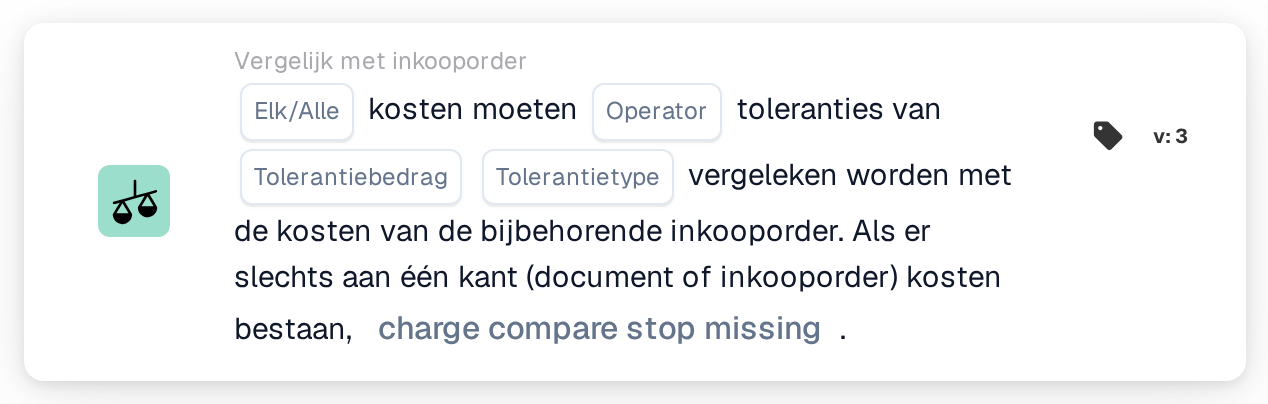
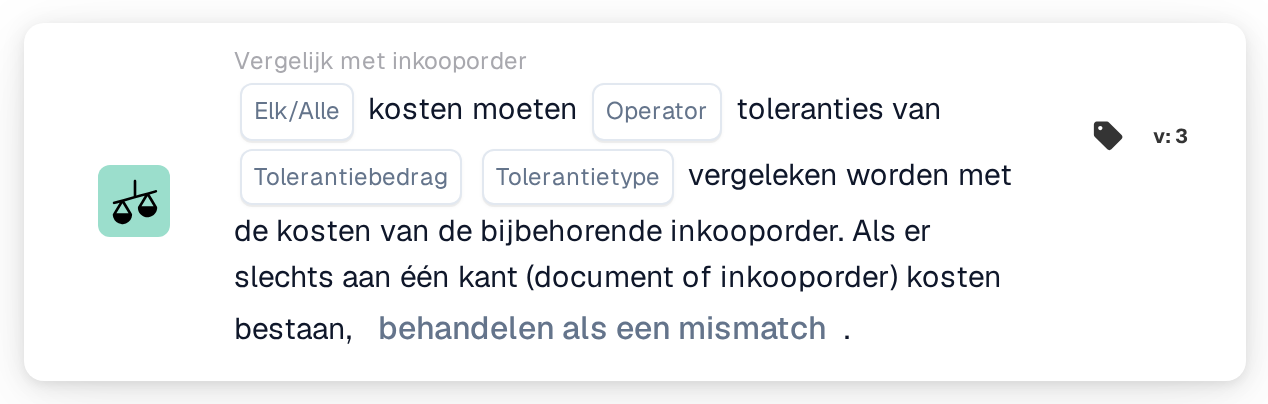
[Documentation_Workflow_Cards] [DRFS-871] add compare charges to po v4

Changed region(s): [[0.3076, 0.7723, 0.6767, 0.8614]]

diff --git a/public_docs/administration-and-setup/workflow/and/compare-with-purchase-order/any-all-charges.md b/public_docs/administration-and-setup/workflow/and/compare-with-purchase-order/any-all-charges.md
@@ -4,6 +4,8 @@
 
 <figure><img src="../../../../.gitbook/assets/workflow_card_condition_compare_charges_to_po_v3-nl-nl.png" alt="Alle/alle kosten, Versie 3" width="634"><figcaption><p>Versie 3</p></figcaption></figure>
 
+<figure><img src="../../../../.gitbook/assets/workflow_card_condition_compare_charges_to_po_v4-nl-nl.png" alt="Alle/alle kosten: Elk/Alle kosten moeten Operator toleranties van Tolerantiebedrag Tolerantietype vergeleken worden met de kosten van de bijbehorende inkooporder; kosten van 0,00 worden ook vergeleken. Als er slechts aan één kant (document of inkooporder) kosten bestaan, behandelen als een mismatch, Versie 4" width="634"><figcaption><p>Versie 4</p></figcaption></figure>
+
 ## **Doel:**
 
 Deze workflowkaart vergelijkt de bijkomende kosten op een document met de bijkomende kosten op de gekoppelde inkooporder, binnen een vastgestelde tolerantie. Ze beantwoordt één vraag: zijn document en inkooporder eens over de bijkomende kosten? Elke kost die de inkoopordermatching aan elkaar heeft gekoppeld wordt vergeleken, waardoor er geen veldnaam op de kaart hoeft te worden opgegeven.
@@ -31,8 +33,8 @@ De inkoopordermatching moet vóór deze kaart lopen. Heeft het document geen gek
    * **Opties**:
      * **Procent**: een percentage van de kost op de inkooporder.
      * **Waarde**: een vast bedrag.
-5. **Gedrag bij ontbrekende gegevens (alleen versie 3):**
-   * **Beschrijving**: Wat er moet gebeuren wanneer een kost slechts aan één zijde bestaat, op het document of op de inkooporder, zodat er geen tegenhanger is om ermee te vergelijken. De optie staat aan het einde van de zin van versie 3.
+5. **Gedrag bij ontbrekende gegevens (versies 3 en 4):**
+   * **Beschrijving**: Wat er moet gebeuren wanneer een kost slechts aan één zijde bestaat, op het document of op de inkooporder, zodat er geen tegenhanger is om ermee te vergelijken. De optie staat aan het einde van de zin.
    * **Opties**:
      * **behandelen als een mismatch**: de workflow stopt. Dit is de standaardinstelling.
      * **negeer het en behandel het als een match**: de workflow loopt verder alsof de kost overeenkwam.
@@ -43,7 +45,7 @@ De kaart doorloopt de volgende stappen.
 
 1. **Ze vereist een gekoppelde inkooporder.** Zonder gekoppelde inkooporder stopt de kaart onmiddellijk en meldt ze ontbrekende gegevens.
 2. **Ze leest de tolerantie** uit **Tolerantiebedrag** en **Tolerantietype** op de kaart.
-3. **Versie 3 sorteert elke gekoppelde inkooporderregel** in één van vier situaties, waarbij ze alleen vraagt of een zijde überhaupt kosten draagt: kosten aan beide zijden, geen kosten aan beide zijden, kosten alleen op het document, of kosten alleen op de inkooporder. Een regel die niet aan de inkooporderdata van het document kan worden gekoppeld is een gegevensfout en de kaart stopt.
+3. **Versies 3 en 4 sorteren elke gekoppelde inkooporderregel** in één van vier situaties: kosten aan beide zijden, geen kosten aan beide zijden, kosten alleen op het document, of kosten alleen op de inkooporder. Versie 3 vraagt alleen of een zijde een kost boven 0,00 draagt. Versie 4 bekijkt elk kostenpaar en telt 0,00 als waarde; alleen een kost zonder enig bedrag geldt als ontbrekend. Zie **Verschillen tussen de versies** hieronder. Een regel die niet aan de inkooporderdata van het document kan worden gekoppeld is een gegevensfout en de kaart stopt.
 4. **Een kost aan slechts één zijde beslist de hele kaart.** Zodra één gekoppelde regel kosten aan de ene zijde draagt en geen aan de andere, beslist **Gedrag bij ontbrekende gegevens** het resultaat en wordt er helemaal geen kost vergeleken, ook niet de kosten van correct gekoppelde regels. Operator en tolerantie worden niet geraadpleegd.
 5. **Draagt geen enkele regel aan één van beide zijden kosten**, dan zijn beide zijden het erover eens dat er geen bijkomende kosten zijn. De operator **Buiten** is daarmee niet voldaan, omdat er niets meer dan de tolerantie afwijkt, en de workflow stopt. Elke andere operator beschouwt de overeenstemming als voldaan en de workflow loopt verder. **Gedrag bij ontbrekende gegevens** heeft hier geen effect.
 6. **Anders wordt elke kost vergeleken**, documentbedrag tegen inkooporderbedrag, met de operator en de tolerantie. Een kostenbedrag dat geen getal is stopt de kaart met ontbrekende gegevens.
@@ -57,7 +59,7 @@ Drie gevolgen zijn belangrijk om te weten vóór het configureren van de kaart.
 
 ## **Instelling en configuratie:**
 
-Voeg de kaart toe als And-voorwaarde na de inkoopordermatching. Kies of elke of één willekeurige kost aan de vergelijking moet voldoen, kies de operator **binnenin** of **Buiten** en voer tolerantiebedrag en tolerantietype in. Kies in versie 3 wat er moet gebeuren wanneer kosten aan slechts één zijde voorkomen.
+Voeg de kaart toe als And-voorwaarde na de inkoopordermatching. Kies of elke of één willekeurige kost aan de vergelijking moet voldoen, kies de operator **binnenin** of **Buiten** en voer tolerantiebedrag en tolerantietype in. Kies in versie 3 en 4 wat er moet gebeuren wanneer kosten aan slechts één zijde voorkomen.
 
 Om een configuratie te proberen zonder op een document te wachten, opent u het kaartmenu in de Workflow Builder, kiest u **Testkaart**, kiest u een document en daarna **Test op document**. Het kaartlogboek somt elke vergeleken kost op met beide bedragen, de operator en de gebruikte tolerantie, en houdt ook bij welke waarde van **Gedrag bij ontbrekende gegevens** het resultaat heeft beslist toen een kost aan slechts één zijde aanwezig was.
 
@@ -71,9 +73,25 @@ Draagt noch de orderbevestiging noch de inkooporder een kost, dan beschouwt de o
 
 Draagt de orderbevestiging een vrachtkost en de inkooporder geen, dan geldt de operator niet meer. Met **behandelen als een mismatch** stopt de workflow, zodat iemand kan nagaan waarom de kost slechts aan één zijde staat.
 
+Toont de orderbevestiging de vrachtkost als 0,00 terwijl de inkooporder 204,00 draagt, dan vergelijkt versie 4 de twee bedragen en stopt de workflow met een niet voldane voorwaarde. Versie 3 zou de 0,00 lezen als "geen kost op het document" en het resultaat overlaten aan **Gedrag bij ontbrekende gegevens**.
+
 ## **Verschillen tussen de versies:**
 
-Versie 3 gebruiken nieuwe kaarten. Versie 2 blijft in bestaande workflows ondersteund. Beide versies vergelijken per kost en voegen de resultaten documentbreed samen met de instelling **Elk/Alle**, maar versie 2 heeft geen gevalsindeling, wat verandert wat er gebeurt zodra kosten niet aan beide zijden aanwezig zijn:
+Versie 4 gebruiken nieuwe kaarten. Versies 2 en 3 blijven in bestaande workflows ondersteund.
+
+### Versie 4 vergeleken met versie 3
+
+De twee versies hebben dezelfde instellingen en dezelfde stappen. Ze verschillen alleen in hoe een kost van 0,00 wordt behandeld:
+
+* **Versie 3 behandelt 0,00 als geen kost.** Een documentkost van 0,00 gekoppeld aan een inkooporderkost van 204,00 telt als "de inkooporder heeft kosten, het document niet", dus beslist **Gedrag bij ontbrekende gegevens** en worden de bedragen nooit vergeleken. Met **negeer het en behandel het als een match** loopt de workflow verder, hoewel de bedragen verschillen.
+* **Versie 4 vergelijkt 0,00 als bedrag.** Hetzelfde paar wordt vergeleken zoals elk ander: 0,00 tegen 204,00 valt niet binnen de tolerantie, dus stopt de workflow met een niet voldane voorwaarde. Een paar met 0,00 aan beide zijden wordt ook vergeleken en komt overeen.
+* **Een kost zonder bedrag ontbreekt ook in versie 4.** Heeft één zijde van een paar helemaal geen bedrag, bijvoorbeeld een kost die de inkooporder niet draagt, dan beslist **Gedrag bij ontbrekende gegevens**, zoals in versie 3.
+
+Om dit gedrag in een bestaande workflow te krijgen, vervangt u de kaart van versie 3 door een kaart van versie 4 en stelt u dezelfde waarden in.
+
+### Versie 2
+
+Ook versie 2 vergelijkt per kost en voegt de resultaten documentbreed samen met de instelling **Elk/Alle**, maar ze heeft geen gevalsindeling, wat verandert wat er gebeurt zodra kosten niet aan beide zijden aanwezig zijn:
 
 * Versie 2 heeft geen optie **Gedrag bij ontbrekende gegevens**. Haar zin eindigt na het tolerantietype.
 * Versie 2 sorteert de gekoppelde regels niet en herkent daardoor geen kost die slechts aan één zijde bestaat. Ze vergelijkt het aanwezige bedrag tegen de 0,00 van de ontbrekende zijde, en de operator beslist: **binnenin** is niet voldaan en de workflow stopt, **Buiten** is voldaan en de workflow loopt verder. Het kaartlogboek toont de vergelijking tegen 0,00.
@@ -81,4 +99,4 @@ Versie 3 gebruiken nieuwe kaarten. Versie 2 blijft in bestaande workflows onders
 
 ## **Conclusie:**
 
-De kaart "Any / All Charges" automatiseert de controle dat de gefactureerde of bevestigde bijkomende kosten overeenkomen met de bestelde bijkomende kosten. Omdat het ontbreken van kosten aan beide zijden in versie 3 als overeenstemming geldt, lopen documenten zonder bijkomende kosten zonder handmatig ingrijpen door, terwijl kosten die aan slechts één zijde voorkomen ter controle worden tegengehouden, tenzij dat uitdrukkelijk wordt toegestaan.
+De kaart "Any / All Charges" automatiseert de controle dat de gefactureerde of bevestigde bijkomende kosten overeenkomen met de bestelde bijkomende kosten. Omdat het ontbreken van kosten aan beide zijden in versie 3 en 4 als overeenstemming geldt, lopen documenten zonder bijkomende kosten zonder handmatig ingrijpen door, terwijl kosten die aan slechts één zijde voorkomen ter controle worden tegengehouden, tenzij dat uitdrukkelijk wordt toegestaan.
